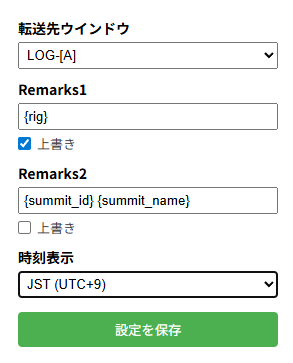
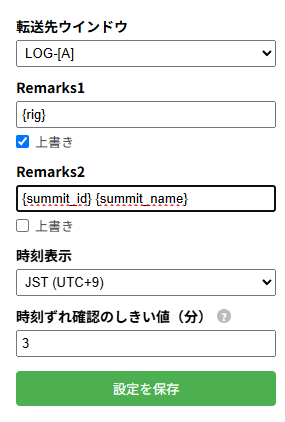
V2.1
- HAMLOG転送ボタンを押したときに、Log Chaseウインドウの時刻が現在時刻からずれているときに確認メッセージを表示するようにしました。

Changed region(s): [[0.0561, 0.0303, 0.9825, 0.9697]]

diff --git a/SOTAWatch2Hamlog/options.html b/SOTAWatch2Hamlog/options.html
@@ -11,7 +11,23 @@
     .overwrite-row input[type="checkbox"] { width: auto; margin: 0; }
     .section-title { font-weight: bold; font-size: 13px; color: #555; border-bottom: 1px solid #ddd; padding-bottom: 3px; margin-bottom: 8px; margin-top: 4px; }
     button { width: 100%; padding: 8px; background: #4CAF50; color: white; border: none; border-radius: 4px; cursor: pointer; margin-top: 4px; }
-    .hint { font-size: 11px; color: #888; margin-top: 3px; }
+    .label-row { display: flex; align-items: center; gap: 5px; margin-bottom: 4px; }
+    .label-row label { margin-bottom: 0; }
+    .hint-icon {
+      display: inline-flex;
+      align-items: center;
+      justify-content: center;
+      width: 14px;
+      height: 14px;
+      border-radius: 50%;
+      background: #bbb;
+      color: #fff;
+      font-size: 10px;
+      font-weight: bold;
+      font-style: normal;
+      cursor: help;
+      flex-shrink: 0;
+    }
   </style>
 </head>
 <body>
@@ -47,6 +63,14 @@
       <option value="JST">JST (UTC+9)</option>
       <option value="UTC">UTC (そのまま)</option>
     </select>
+  </div>
+
+  <div class="field">
+    <div class="label-row">
+      <label for="timeDeviationThreshold">時刻ずれ確認のしきい値（分）</label>
+      <span class="hint-icon" title="Log Chaseの日時が現在時刻からこの分数以上ずれている場合、転送前に確認ダイアログを表示します。0にすると確認しません。">?</span>
+    </div>
+    <input type="text" id="timeDeviationThreshold" value="3" inputmode="numeric">
   </div>
   <button id="save">設定を保存</button>
   <script src="options.js"></script>

diff --git a/SOTAWatch2Hamlog/options.js b/SOTAWatch2Hamlog/options.js
@@ -1,12 +1,14 @@
 document.addEventListener('DOMContentLoaded', () => {
   // 保存された設定を読み込む
   chrome.storage.local.get([
-    'targetLog', 'timeMode',
+    'targetLog', 'timeMode', 'timeDeviationThreshold',
     'remarks1Format', 'remarks1Overwrite',
     'remarks2Format', 'remarks2Overwrite'
   ], (items) => {
     if (items.targetLog) document.getElementById('targetLog').value = items.targetLog;
     if (items.timeMode)  document.getElementById('timeMode').value  = items.timeMode;
+    document.getElementById('timeDeviationThreshold').value =
+      (items.timeDeviationThreshold !== undefined) ? items.timeDeviationThreshold : 3;
 
     // Remarks1
     if (items.remarks1Format !== undefined)
@@ -21,9 +23,13 @@ document.addEventListener('DOMContentLoaded', () => {
 
   // 保存ボタン
   document.getElementById('save').addEventListener('click', () => {
+    let threshold = parseInt(document.getElementById('timeDeviationThreshold').value, 10);
+    if (isNaN(threshold) || threshold < 0) threshold = 3;
+
     chrome.storage.local.set({
       targetLog:        document.getElementById('targetLog').value,
       timeMode:         document.getElementById('timeMode').value,
+      timeDeviationThreshold: threshold,
       remarks1Format:   document.getElementById('remarks1Format').value,
       remarks1Overwrite: document.getElementById('remarks1Overwrite').checked,
       remarks2Format:   document.getElementById('remarks2Format').value,

diff --git a/SOTAWatch2Hamlog/content.js b/SOTAWatch2Hamlog/content.js
@@ -208,6 +208,7 @@ function injectButton() {
 		chrome.storage.local.get({
 			timeMode:         'JST',
 			targetLog:        'A',
+			timeDeviationThreshold: 3,
 			remarks1Format:   '',
 			remarks1Overwrite: false,
 			remarks2Format:   '',
@@ -244,6 +245,19 @@ function injectButton() {
 				parseInt(t[0]), 
 				parseInt(t[1])
 			));
+
+			// 現在時刻とのずれをチェック（Log Chaseの日時はUTC基準）
+			const threshold = parseInt(settings.timeDeviationThreshold, 10) || 0;
+			if (threshold > 0) {
+				const diffMinutes = Math.abs(Date.now() - dateObj.getTime()) / 60000;
+				if (diffMinutes > threshold) {
+					const diffRounded = Math.round(diffMinutes);
+					const proceed = confirm(
+						`Log Chaseの日時が現在時刻から約${diffRounded}分ずれています（しきい値: ${threshold}分）。\nこのままHAMLOGへ転送しますか？`
+					);
+					if (!proceed) return;
+				}
+			}
 			
 			let finalDate, finalTime;
 			if (settings.timeMode === 'JST') {
